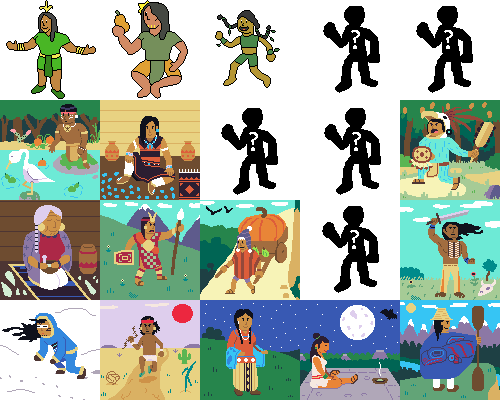
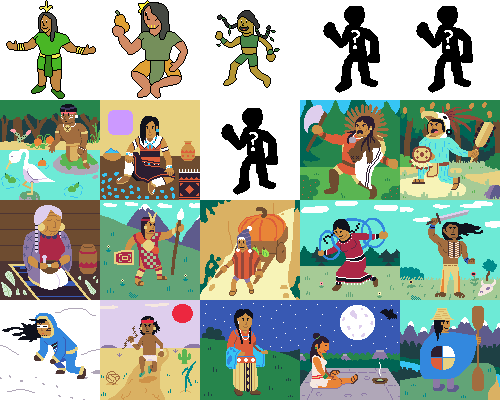
2 character sprites and edited some existing ones

diff --git a/src/game.ts b/src/game.ts
@@ -57,7 +57,7 @@ export default class Game {
       time: Time.DAY,
       cave: false
     };
-    this.party.populate('fisherman', 'gourd elder', 'kamayuq', 'medicine woman');
+    this.party.populate('hoop dancer', 'guardian', 'gourd elder', 'medicine woman');
     this.chain.futureEvent(new TimeEvent(this), DAY_NIGHT_CYCLE);
   }
 
